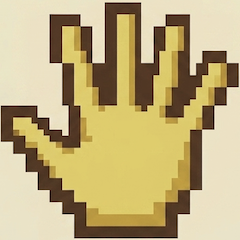
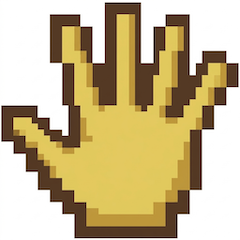
third commit

diff --git a/js/main.js b/js/main.js
@@ -1,15 +1,43 @@
 let canvas;
 let ctx;
 let gameState;
+const START_BATTLE_TRANSITION_MS = 2700;
+const BGM_VOLUME = 0.2;
+const bgm = {
+  map: new Audio('src/8bit_City-Of-Bright-Longing.mp3'),
+  startBattle: new Audio('src/start_battle_BGM.mp3'),
+  duringBattle: new Audio('src/during_battle_BGM.mp3'),
+  winResult: new Audio('src/win_result_BGM.mp3'),
+  loseResult: new Audio('src/lose_result_BGM.mp3'),
+};
+let currentBgm = null;
 
-$(function () {
-  canvas = $('#gameCanvas').get(0);
+bgm.map.loop = true;
+bgm.duringBattle.loop = true;
+bgm.winResult.loop = true;
+bgm.loseResult.loop = true;
+Object.values(bgm).forEach((audio) => {
+  audio.preload = 'auto';
+  audio.volume = BGM_VOLUME;
+});
+
+bgm.startBattle.addEventListener('ended', () => {
+  if (currentBgm !== bgm.startBattle) return;
+  if (gameState.scene === SCENES.MAP || gameState.transition.type === 'BATTLE_TO_MAP') {
+    syncBgm();
+    return;
+  }
+  playBgm(bgm.duringBattle);
+});
+
+window.addEventListener('DOMContentLoaded', () => {
+  canvas = document.getElementById('gameCanvas');
   ctx = canvas.getContext('2d');
   ctx.imageSmoothingEnabled = false;
 
   gameState = createInitialState();
 
-  $(window).on('keydown', (event) => {
+  window.addEventListener('keydown', (event) => {
     const key = event.key;
     if (['ArrowUp', 'ArrowDown', 'ArrowLeft', 'ArrowRight', 'Enter', 'z', 'Z', 'x', 'X', 'w', 'a', 's', 'd', 'W', 'A', 'S', 'D'].includes(key)) {
       event.preventDefault();
@@ -17,7 +45,7 @@ $(function () {
     handleInput(key);
   });
 
-  $('#gameCanvas').on('click', () => handleConfirm());
+  canvas.addEventListener('click', () => handleConfirm());
 
   requestAnimationFrame(loop);
 });
@@ -40,6 +68,7 @@ function handleInput(key) {
   if (gameState.scene === SCENES.MAP) handleMapInput(key);
   else if (gameState.scene === SCENES.SELECT) handleSelectInput(key);
   else if (gameState.scene === SCENES.BATTLE) handleBattleInput(key);
+  syncBgm();
 }
 
 function handleMapInput(key) {
@@ -80,10 +109,63 @@ function handleBattleInput(key) {
 function handleConfirm() {
   if (gameState.scene === SCENES.SELECT) choosePokemon(gameState);
   else if (gameState.scene === SCENES.BATTLE) handleBattleConfirm(gameState);
+  syncBgm();
 }
 
 function isConfirm(key) {
   return key === 'Enter' || key.toLowerCase() === 'z';
+}
+
+function syncBgm() {
+  const nextBgm = getBgmForState();
+  if (!nextBgm) {
+    stopBgm();
+    return;
+  }
+  playBgm(nextBgm);
+}
+
+function getBgmForState() {
+  const resultBgm = getResultBgm();
+  if (resultBgm && (gameState.textState?.fullText.endsWith('は たおれた！') || currentBgm === resultBgm)) {
+    return resultBgm;
+  }
+  if (gameState.transition.active && gameState.transition.type === 'FLASH_TO_SELECT') return bgm.startBattle;
+  if (gameState.scene === SCENES.MAP && !gameState.transition.active) return bgm.map;
+  if (gameState.scene === SCENES.SELECT && currentBgm === bgm.startBattle && !bgm.startBattle.ended) return bgm.startBattle;
+  if (gameState.scene === SCENES.SELECT) return bgm.duringBattle;
+  if (gameState.scene === SCENES.BATTLE) return bgm.duringBattle;
+  return null;
+}
+
+function getResultBgm() {
+  if (gameState.battle?.winner === 'PLAYER') return bgm.winResult;
+  if (gameState.battle?.winner === 'PC') return bgm.loseResult;
+  return null;
+}
+
+function playBgm(nextBgm) {
+  if (currentBgm === nextBgm) {
+    if (nextBgm.paused) {
+      nextBgm.volume = BGM_VOLUME;
+      nextBgm.play().catch(() => {});
+    }
+    return;
+  }
+  stopBgm();
+  currentBgm = nextBgm;
+  currentBgm.currentTime = 0;
+  currentBgm.volume = BGM_VOLUME;
+  currentBgm.play().catch(() => {
+    if (currentBgm === nextBgm) currentBgm = null;
+  });
+}
+
+function stopBgm() {
+  if (!currentBgm) return;
+  currentBgm.pause();
+  currentBgm.currentTime = 0;
+  currentBgm = null;
 }
 
 function resetToMap() {
@@ -113,12 +195,15 @@ function update(timestamp) {
 function updateTransition(state, timestamp) {
   if (!state.transition.active) return;
   const elapsed = timestamp - state.transition.startedAt;
-  if (state.transition.type === 'FLASH_TO_SELECT' && elapsed > 1240) {
+  if (state.transition.type === 'FLASH_TO_SELECT' && elapsed > START_BATTLE_TRANSITION_MS) {
     state.transition.active = false;
+    state.transition.type = null;
     startPokemonSelect(state);
+    syncBgm();
   }
   if (state.transition.type === 'BATTLE_TO_MAP' && elapsed > 1100) {
     resetToMap();
+    syncBgm();
   }
 }
 

diff --git a/js/constants.js b/js/constants.js
@@ -67,8 +67,8 @@ const POKEMONS = [
     id: 'bikachu',
     name: 'ビカチュウ',
     maxHp: 100,
-    atk: 45,
-    def: 10,
+    atk: 55,
+    def: 20,
     specialName: 'でんじは',
     specialEffect: 'PARALYZE_2',
   },
@@ -76,8 +76,8 @@ const POKEMONS = [
     id: 'eepui',
     name: 'イープイ',
     maxHp: 100,
-    atk: 40,
-    def: 15,
+    atk: 50,
+    def: 25,
     specialName: 'しっぽをふる',
     specialEffect: 'DEF_DOWN_5',
   },
@@ -85,8 +85,8 @@ const POKEMONS = [
     id: 'burin',
     name: 'ブリン',
     maxHp: 120,
-    atk: 35,
-    def: 15,
+    atk: 55,
+    def: 25,
     specialName: 'まるくなる',
     specialEffect: 'DEF_UP_5',
   },
@@ -110,9 +110,12 @@ const MESSAGES = {
   PLAYER_WINS: 'じゃんけんは あなたの かち！',
   PC_WINS: 'じゃんけんは タケシの かち！',
   DRAW: 'じゃんけんは あいこ！',
-  PLAYER_DAMAGED: (damage) => `じゃんけんは タケシの かち！あなたは ${damage} のダメージ！`,
-  PC_DAMAGED: (damage) => `じゃんけんは あなたの かち！タケシは ${damage} のダメージ！`,
-  BOTH_DAMAGED: (playerDamage, pcDamage) => `じゃんけんは あいこ！あなたは${playerDamage} タケシは${pcDamage} のダメージ！`,
+  PLAYER_DAMAGED: (damage) => `じゃんけんは タケシの かち！あなたは ダメージを うけた！`,
+  // PLAYER_DAMAGED: (damage) => `じゃんけんは タケシの かち！あなたに ${damage} のダメージ！`,
+  PC_DAMAGED: (damage) => `じゃんけんは あなたの かち！タケシに ダメージを あたえた！`,
+  // PC_DAMAGED: (damage) => `じゃんけんは あなたの かち！タケシは ${damage} のダメージ！`,
+  BOTH_DAMAGED: (playerDamage, pcDamage) => `じゃんけんは あいこ！`,
+  // BOTH_DAMAGED: (playerDamage, pcDamage) => `じゃんけんは あいこ！あなたは${playerDamage} タケシは${pcDamage} のダメージ！`,
   NO_DAMAGE: 'ダメージは なかった！',
   SPECIAL_USED: (name, move) => `${name}は ${move}を つかった！`,
   BOTH_SPECIAL: 'おたがい とくしゅわざを つかった！',

diff --git a/js/battle.js b/js/battle.js
@@ -97,15 +97,15 @@ function drawBattleScene(ctx, state, timestamp) {
   drawHPBar(ctx, 302, 264, player.displayHp, player.maxHp, 104);
   drawText(ctx, `${Math.max(0, player.currentHp)}/${player.maxHp}`, 322, 284, 9);
 
-  drawPokemonWithEffects(ctx, pc, 284, 48, 96, false, timestamp);
-  drawPokemonWithEffects(ctx, player, 44, 170, 82, true, timestamp);
+  drawPokemonWithEffects(ctx, pc, 300, 40, 120, false, timestamp);
+  drawPokemonWithEffects(ctx, player, 50, 200, 120, true, timestamp);
   drawMoveEffects(ctx, battle.moveEffects, timestamp);
 
   if (battle.phase === 'COMMAND') {
-    drawTextBox(ctx, { visibleText: `${battleSubject(player, 'あなた')}は こうどうを えらんでね`, done: false });
+    drawTextBox(ctx, { visibleText: `こうどうを えらんでね`, done: false });
     drawMenu(ctx, [{ label: 'たたかう' }, { label: 'にげる' }], battle.commandIndex, 264, 336, 200, 80, { cols: 1 });
   } else if (battle.phase === 'MOVE') {
-    drawTextBox(ctx, { visibleText: `${battleSubject(player, 'あなた')}は わざを えらんでね`, done: false });
+    drawTextBox(ctx, { visibleText: `わざを えらんでね`, done: false });
     const disabled = player.paralyzed > 0;
     const items = MOVES.map((move) => ({
       label: move.id === 'SPECIAL' ? player.specialName : move.name,
@@ -258,10 +258,10 @@ function createParalysisRecoveryMessages(player, pc, playerParalyzedAtTurnStart,
 function createBasicMoveEffects(playerMove, pcMove) {
   const effects = [];
   if (pcMove?.type === 'BASIC') {
-    effects.push({ moveId: pcMove.id, centerX: 242, centerY: 152, height: 67 });
+    effects.push({ moveId: pcMove.id, centerX: 280, centerY: 140, height: 55 });
   }
   if (playerMove?.type === 'BASIC') {
-    effects.push({ moveId: playerMove.id, centerX: 185, centerY: 210, height: 57 });
+    effects.push({ moveId: playerMove.id, centerX: 200, centerY: 200, height: 55 });
   }
   return effects;
 }
@@ -333,7 +333,7 @@ function computeTurn(player, pc, pMove, cMove, logs) {
   let damageToPlayer = 0;
   let damageToPc = 0;
   const pendingSpecials = [];
-＠  const queueSpecial = (self, target) => {
+  const queueSpecial = (self, target) => {
     logs.push(createSpecialUsedMessage(self));
     if (isThunderWave(self) && Math.random() >= THUNDER_WAVE_SUCCESS_RATE) {
       logs.push(MESSAGES.SPECIAL_FAILED);
@@ -409,11 +409,11 @@ function applySpecial(self, target) {
     message = MESSAGES.PARALYZE(battleSubject(target));
   }
   if (self.specialEffect === 'DEF_DOWN_5') {
-    target.currentDef -= 5;
+    target.currentDef = Math.max(target.currentDef -8, 0);
     message = MESSAGES.DEF_DOWN(battleSubject(target));
   }
   if (self.specialEffect === 'DEF_UP_5') {
-    self.currentDef = Math.min(self.currentDef + 5, 30);
+    self.currentDef = Math.min(self.currentDef + 8, 30);
     message = MESSAGES.DEF_UP(battleSubject(self));
   }
 

diff --git a/index.html b/index.html
@@ -28,7 +28,6 @@
         </section>
     </main>
 
-    <script src="https://ajax.googleapis.com/ajax/libs/jquery/3.7.1/jquery.min.js"></script>
     <script src="js/constants.js"></script>
     <script src="js/sprites.js"></script>
     <script src="js/ui.js"></script>